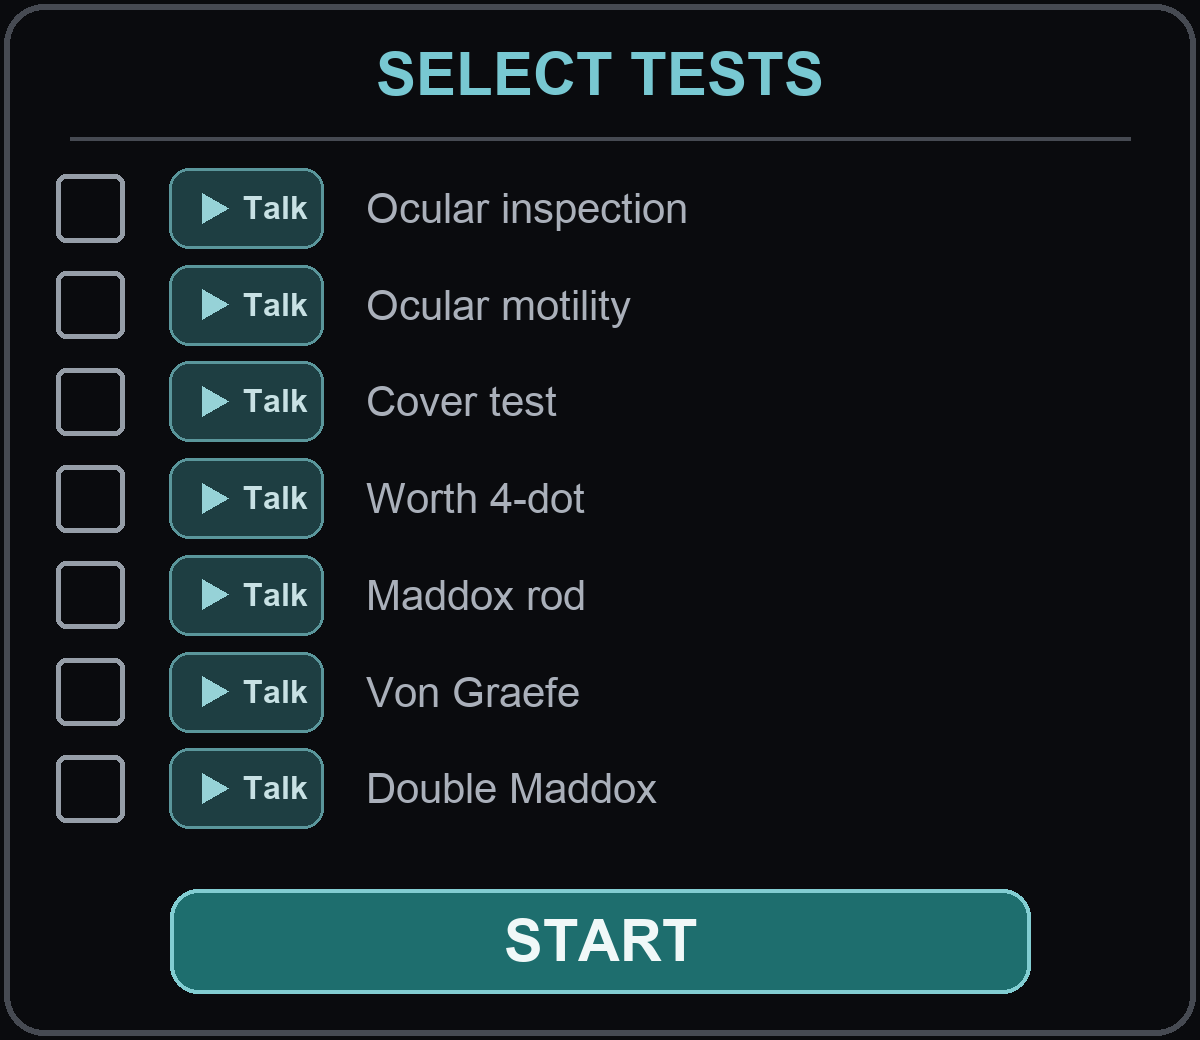
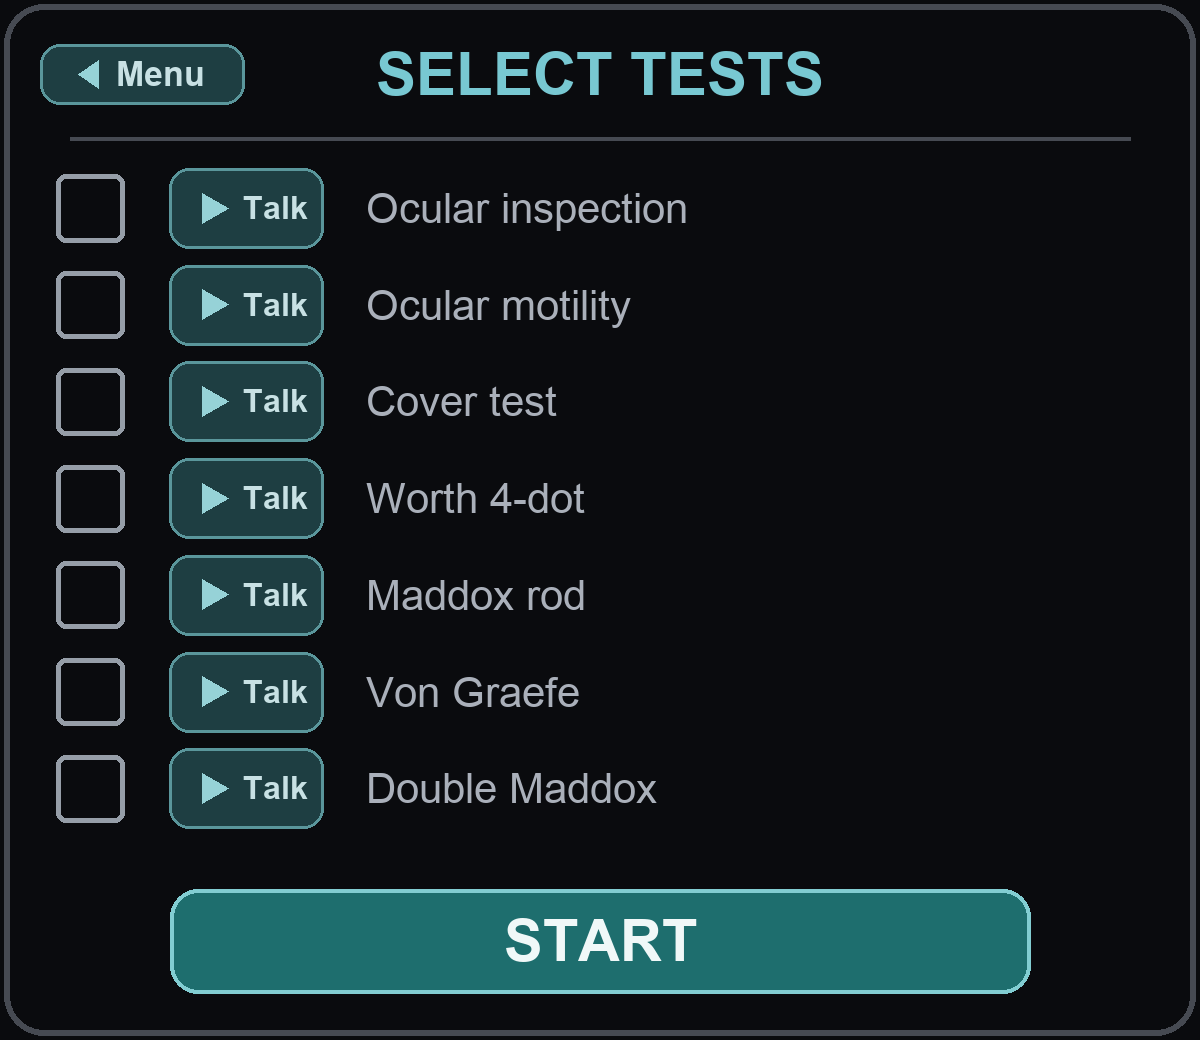
parity: Menu back button on select panels -> workflow chooser (mirrors openxr-skybox@a7e7522)

Changed region(s): [[0.0308, 0.0308, 0.2158, 0.1231]]

diff --git a/app.js b/app.js
@@ -683,9 +683,15 @@ function menuHitRow(pos, q, dist, w, h, row0V, rowDV, rows) {
 }
 
 // test-select panel hit: START band, else a row's Talk button or checkbox
+// the "Menu" back button, top-left of both select panels (normalized u,v)
+function inBackZone(u, v) {
+  return u >= 0.02 && u <= 0.22 && v >= 0.035 && v <= 0.11;
+}
+
 function checklistHit(pos, q) {
   const uv = menuHitUV(pos, q, CHECKLIST_DIST, CHECKLIST_W, CHECKLIST_H);
   if (!uv) return null;
+  if (inBackZone(uv.u, uv.v)) return { kind: 'back', row: -1 };
   if (Math.abs(uv.v - CHECKLIST_START_V) <= CHECKLIST_START_HALF_V &&
       uv.u > 0.12 && uv.u < 0.88)
     return { kind: 'start', row: -1 };
@@ -703,6 +709,7 @@ function checklistHit(pos, q) {
 function therapyPanelHit(pos, q) {
   const uv = menuHitUV(pos, q, CHECKLIST_DIST, CHECKLIST_W, CHECKLIST_H);
   if (!uv) return null;
+  if (inBackZone(uv.u, uv.v)) return { kind: 'back', row: -1 };
   if (Math.abs(uv.v - CHECKLIST_START_V) <= CHECKLIST_START_HALF_V &&
       uv.u > 0.12 && uv.u < 0.88)
     return { kind: 'start', row: -1 };
@@ -1119,6 +1126,8 @@ function therapyTrigger() {
         playClip(thpDescClip(thpHit.row));
       } else if (thpHit.kind === 'start') {
         thpStartRun();
+      } else if (thpHit.kind === 'back') {  // back to workflow chooser
+        phase = 'choose'; thpMode = 'select'; playClip(CLIP_CHOOSE);
       }
     } else if (playingClip >= 0) skipClip();
     else toggleLights();
@@ -1630,6 +1639,7 @@ function drawScene(projMatrix, viewRotMatrix, rightEye, curPos, eyePoses,
     if (clHit) {  // caret marks the hovered element
       let cu, cv;
       if (clHit.kind === 'start') { cu = 0.13; cv = CHECKLIST_START_V; }
+      else if (clHit.kind === 'back') { cu = 0.03; cv = 0.071; }
       else {
         cv = CHECKLIST_ROW0_V + clHit.row * CHECKLIST_ROW_DV;
         cu = clHit.kind === 'talk' ? (CHECKLIST_TALK_MIN_U - 0.03) : 0.03;
@@ -1969,6 +1979,7 @@ function drawScene(projMatrix, viewRotMatrix, rightEye, curPos, eyePoses,
     if (thpHit) {  // caret marks the hovered element
       let cu, cv;
       if (thpHit.kind === 'start') { cu = 0.13; cv = CHECKLIST_START_V; }
+      else if (thpHit.kind === 'back') { cu = 0.03; cv = 0.071; }
       else {
         cv = THP_ROW0_V + thpHit.row * THP_ROW_DV;
         cu = thpHit.kind === 'talk' ? (CHECKLIST_TALK_MIN_U - 0.03) : 0.03;
@@ -2276,6 +2287,8 @@ async function enterVR() {
               playClip(CLIP_DESC0 + clHit.row);
             } else if (clHit.kind === 'start') {
               startRun();
+            } else if (clHit.kind === 'back') {  // back to workflow chooser
+              phase = 'choose'; testMode = 'select'; playClip(CLIP_CHOOSE);
             }
             return;
           }